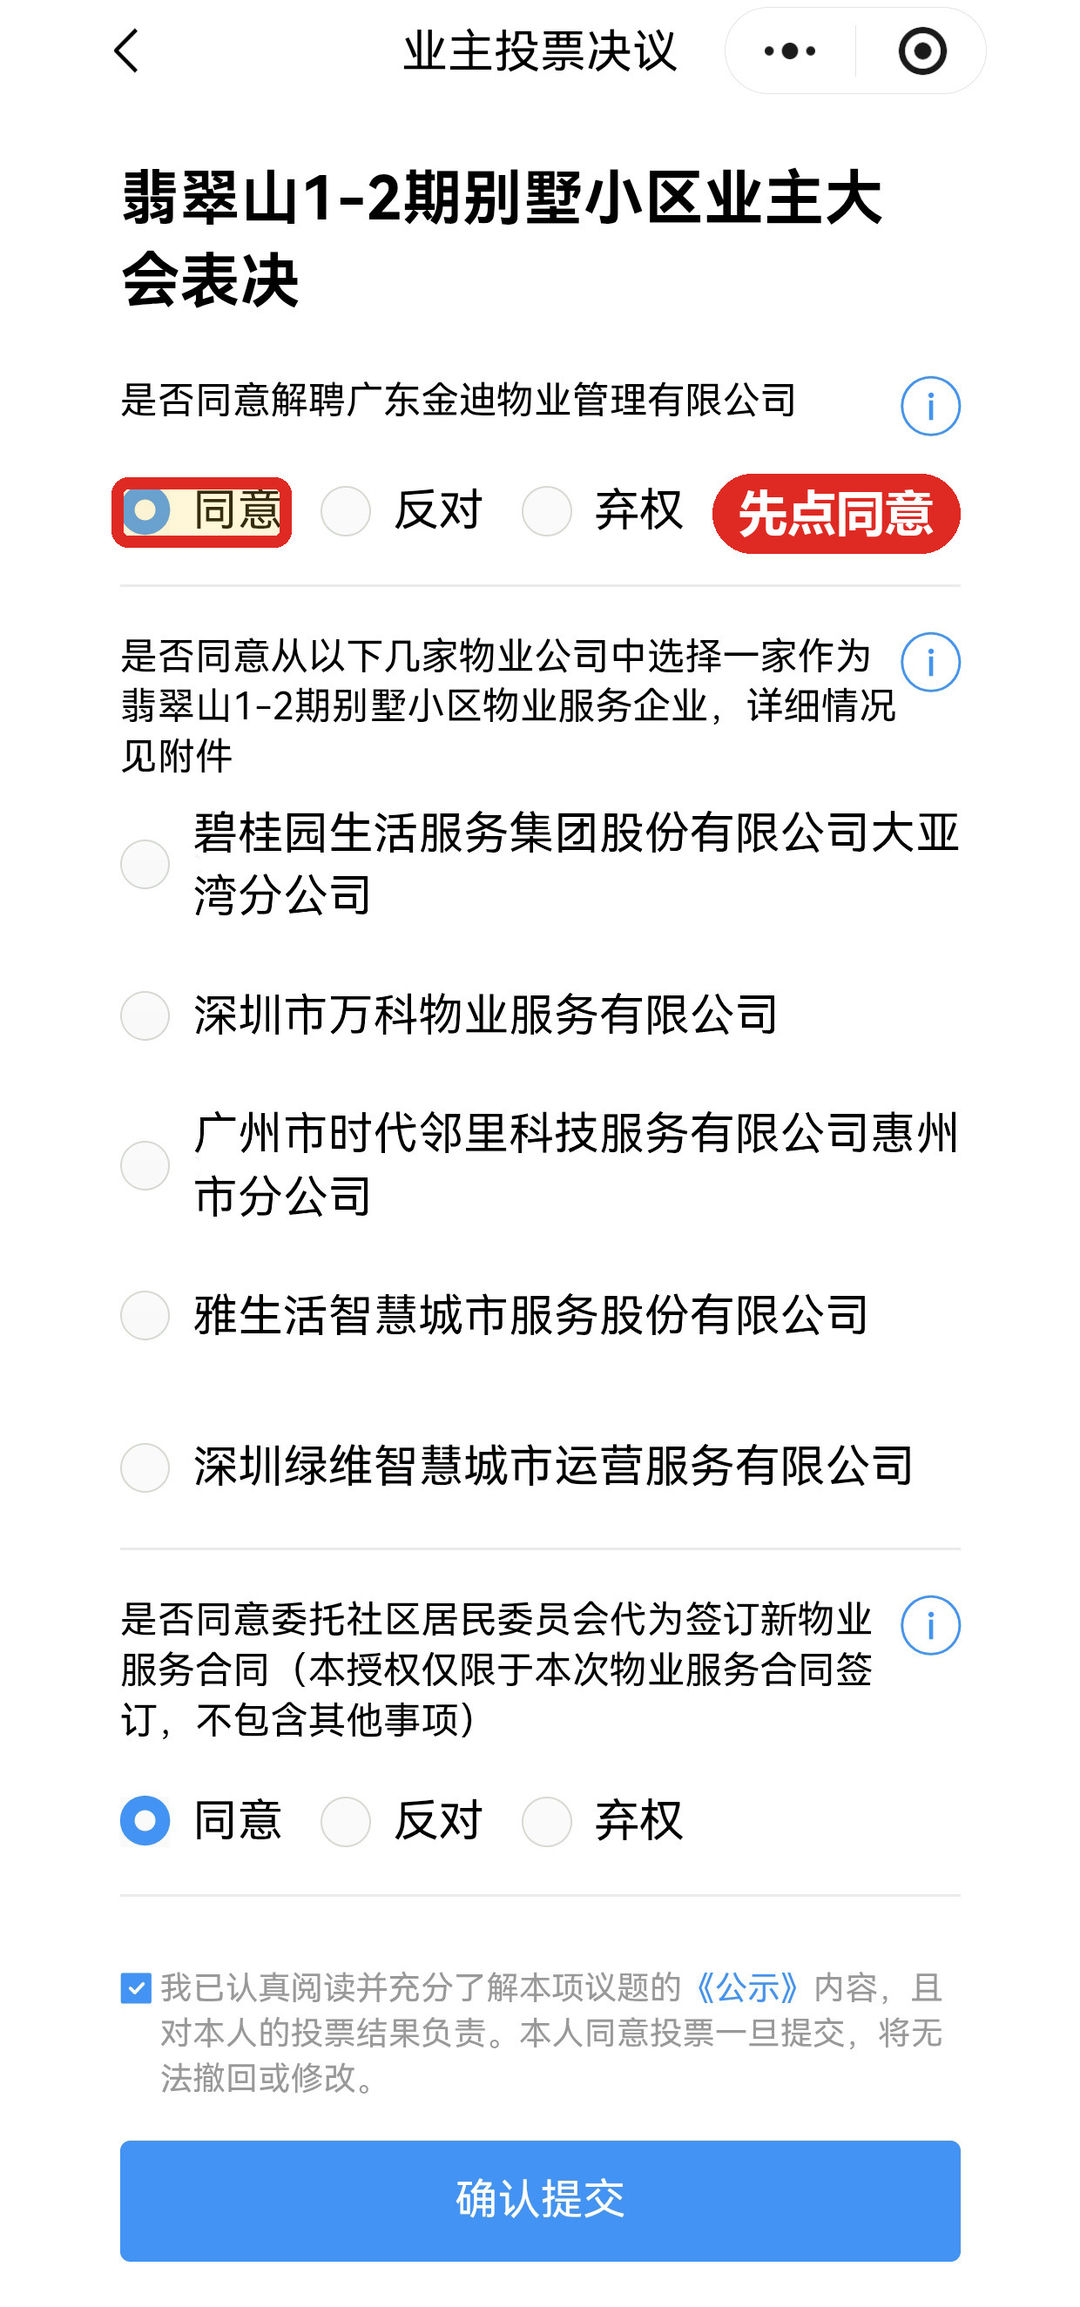
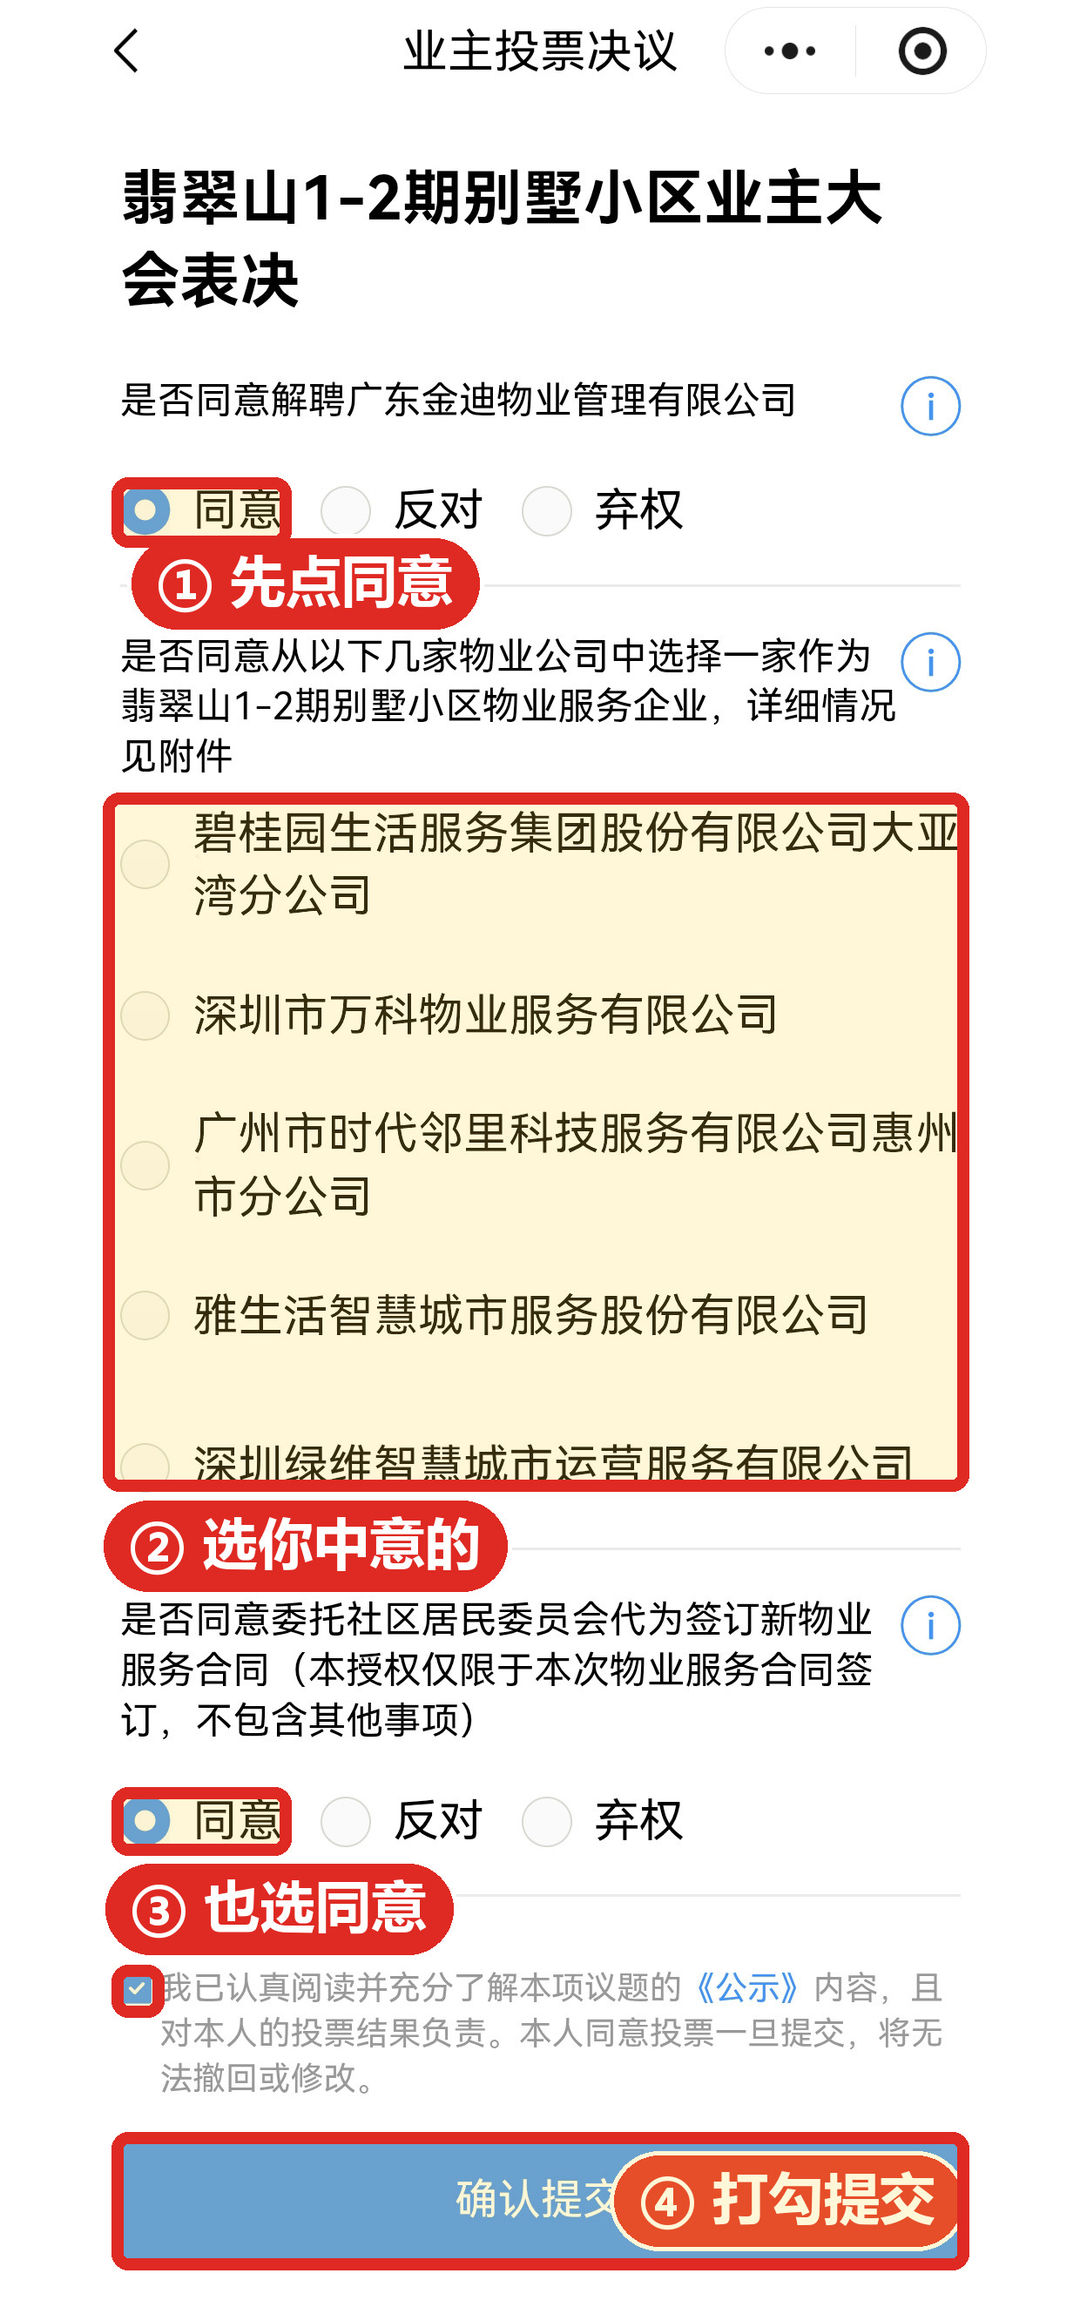
Guide v1.22: step 13 now marks all four actions (agree to dismiss, pick a company, agree to the mandate, tick and submit)

diff --git a/guide/index.html b/guide/index.html
@@ -926,23 +926,23 @@
       </div>
       <div class="shot-box">
         <picture>
-          <source type="image/webp" srcset="13_业主投票决议页_第一题先选同意.webp?v=1">
-          <img class="shot" loading="lazy" decoding="async" src="13_业主投票决议页_第一题先选同意.jpg?v=1" alt="投票表单：第一题「是否同意解聘」的「同意」被红框标出，下面还有选新物业、委托居委会两个议题和「确认提交」按钮" width="1080" height="2307">
+          <source type="image/webp" srcset="13_业主投票决议页_第一题先选同意.webp?v=2">
+          <img class="shot" loading="lazy" decoding="async" src="13_业主投票决议页_第一题先选同意.jpg?v=2" alt="投票表单：四个红框依次标出第一题选「同意」、第二题挑一家新物业、第三题也选「同意」，以及勾选承诺后点「确认提交」" width="1080" height="2307">
         </picture>
         <span class="zoom-hint">点击放大</span>
       </div>
-      <p class="shot-note">红框处的第一题，请先选「同意」</p>
+      <p class="shot-note">四个红框按编号依次做：① 先选同意 ② 挑一家新物业 ③ 也选同意 ④ 打勾再提交</p>
       <div class="notice notice--brick">
         <strong>务必先选第一题的「同意」</strong>
-        只有先选了「同意」解聘，第二题（选新的物业服务企业）才有选择的机会。
+        只有先选了「同意」解聘，第二题（选新的物业服务企业）才有选择的机会。往下还有三件事：第三题也选「同意」；勾选「我已认真阅读…」；最后点「确认提交」。
       </div>
       <details class="step-more">
         <summary>详细说明</summary>
         <div class="body">这一屏上有<b>三个议题</b>，就在同一页上，从上到下依次选：<br>
-        ① <b>是否同意解聘现有物业</b>——选「同意」；<br>
-        ② <b>从候选名单里选一家新的物业服务企业</b>——点你想选的那一家，各家的详细情况见公示的附件；<br>
-        ③ <b>是否同意委托社区居委会代为签订新物业服务合同</b>——按你自己的意见选。<br>
-        三题都选好后，勾选页面下方的承诺，再点最底部的「<b>确认提交</b>」。提醒一句：<b>投票一旦提交，无法撤回或修改</b>，提交前请再核对一遍。</div>
+        ① <b>是否同意解聘现有物业</b>——选「<b>同意</b>」；<br>
+        ② <b>从候选名单里选一家新的物业服务企业</b>——挑你最中意的那一家，各家的详细情况见公示的附件；<br>
+        ③ <b>是否同意委托社区居委会代为签订新物业服务合同</b>——也选「<b>同意</b>」。<br>
+        三题都选好后，勾选页面下方的「<b>我已认真阅读并充分了解本项议题的《公示》内容</b>」，再点最底部的「<b>确认提交</b>」。提醒一句：<b>投票一旦提交，无法撤回或修改</b>，提交前请再核对一遍。</div>
       </details>
     </article>
 
@@ -1033,7 +1033,7 @@
 
   <footer class="foot">
     <p>
-      本页由小区业主自行整理，仅在本小区业主范围内传阅，<b>不是政府或粤省事官方发布的文件</b>。截图采集于 <b>2026 年 9 月 14 日至 15 日</b>（指引版本 <b>v1.21</b>），实际界面以粤省事当前显示为准。截图中的个人身份信息已作遮蔽处理，<b>红色方框与箭头为后加的操作指引标记</b>，非平台原有界面元素。
+      本页由小区业主自行整理，仅在本小区业主范围内传阅，<b>不是政府或粤省事官方发布的文件</b>。截图采集于 <b>2026 年 9 月 14 日至 15 日</b>（指引版本 <b>v1.22</b>），实际界面以粤省事当前显示为准。截图中的个人身份信息已作遮蔽处理，<b>红色方框与箭头为后加的操作指引标记</b>，非平台原有界面元素。
     </p>
   </footer>
 
